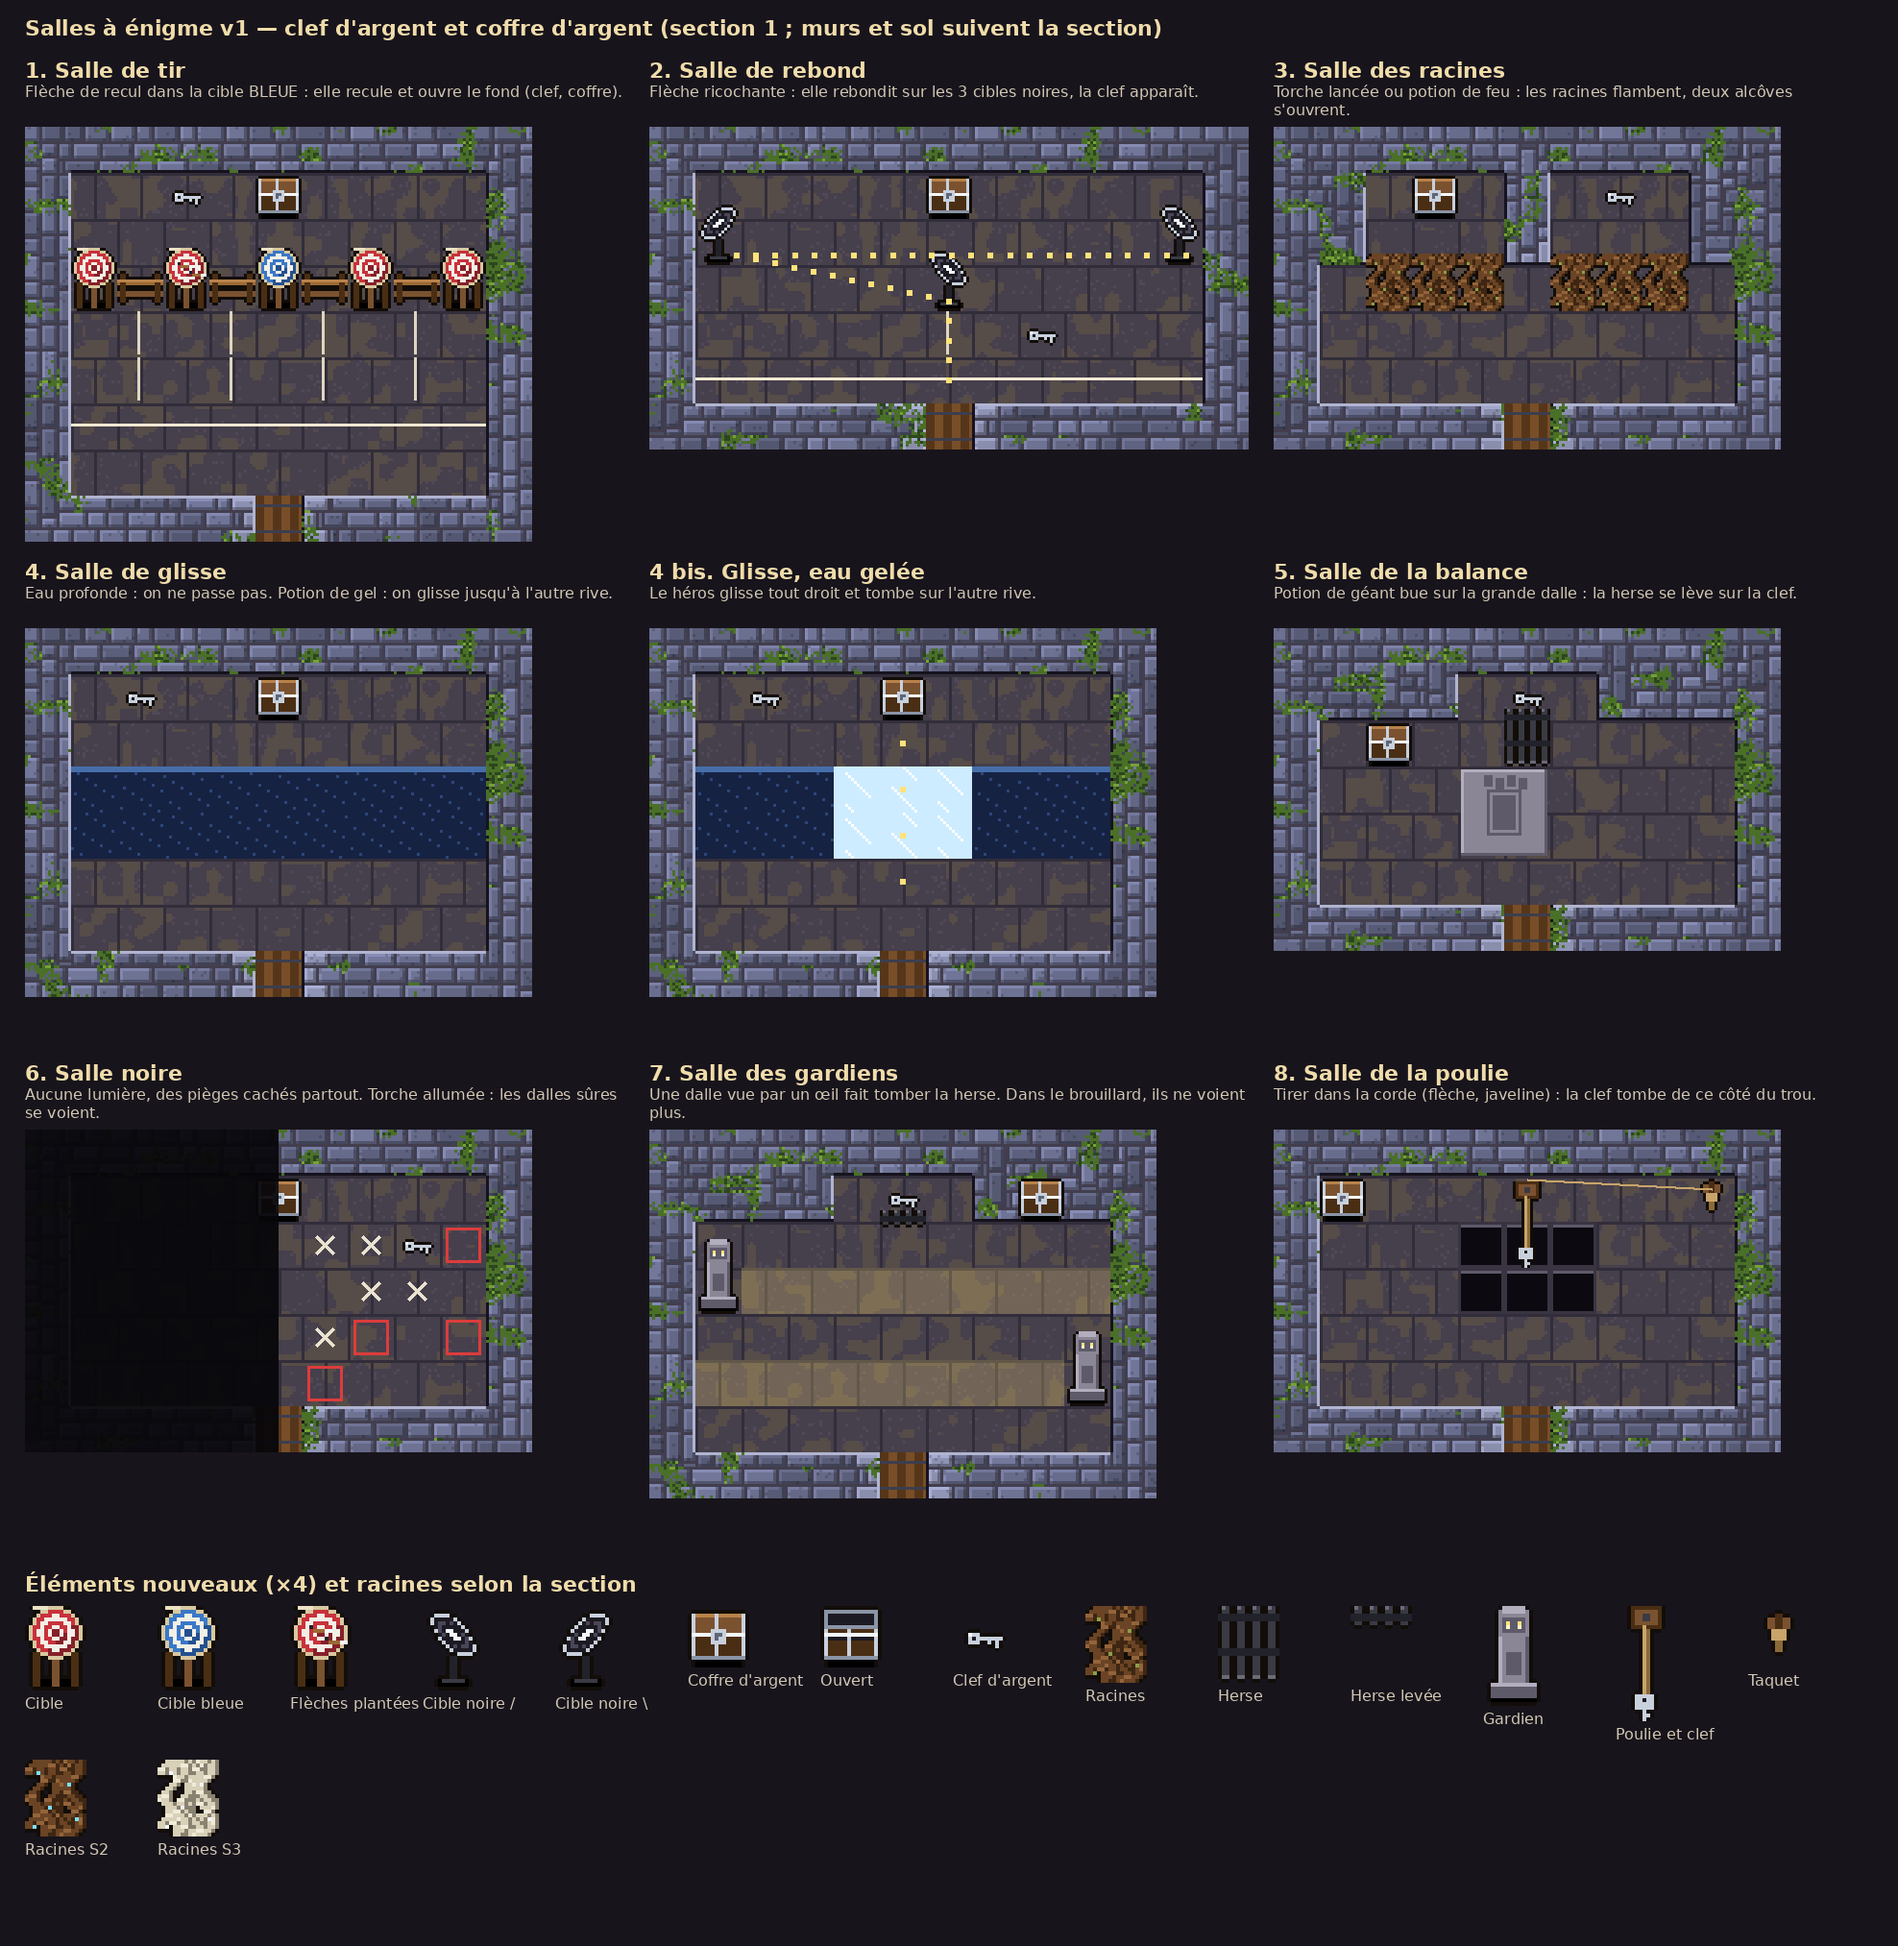
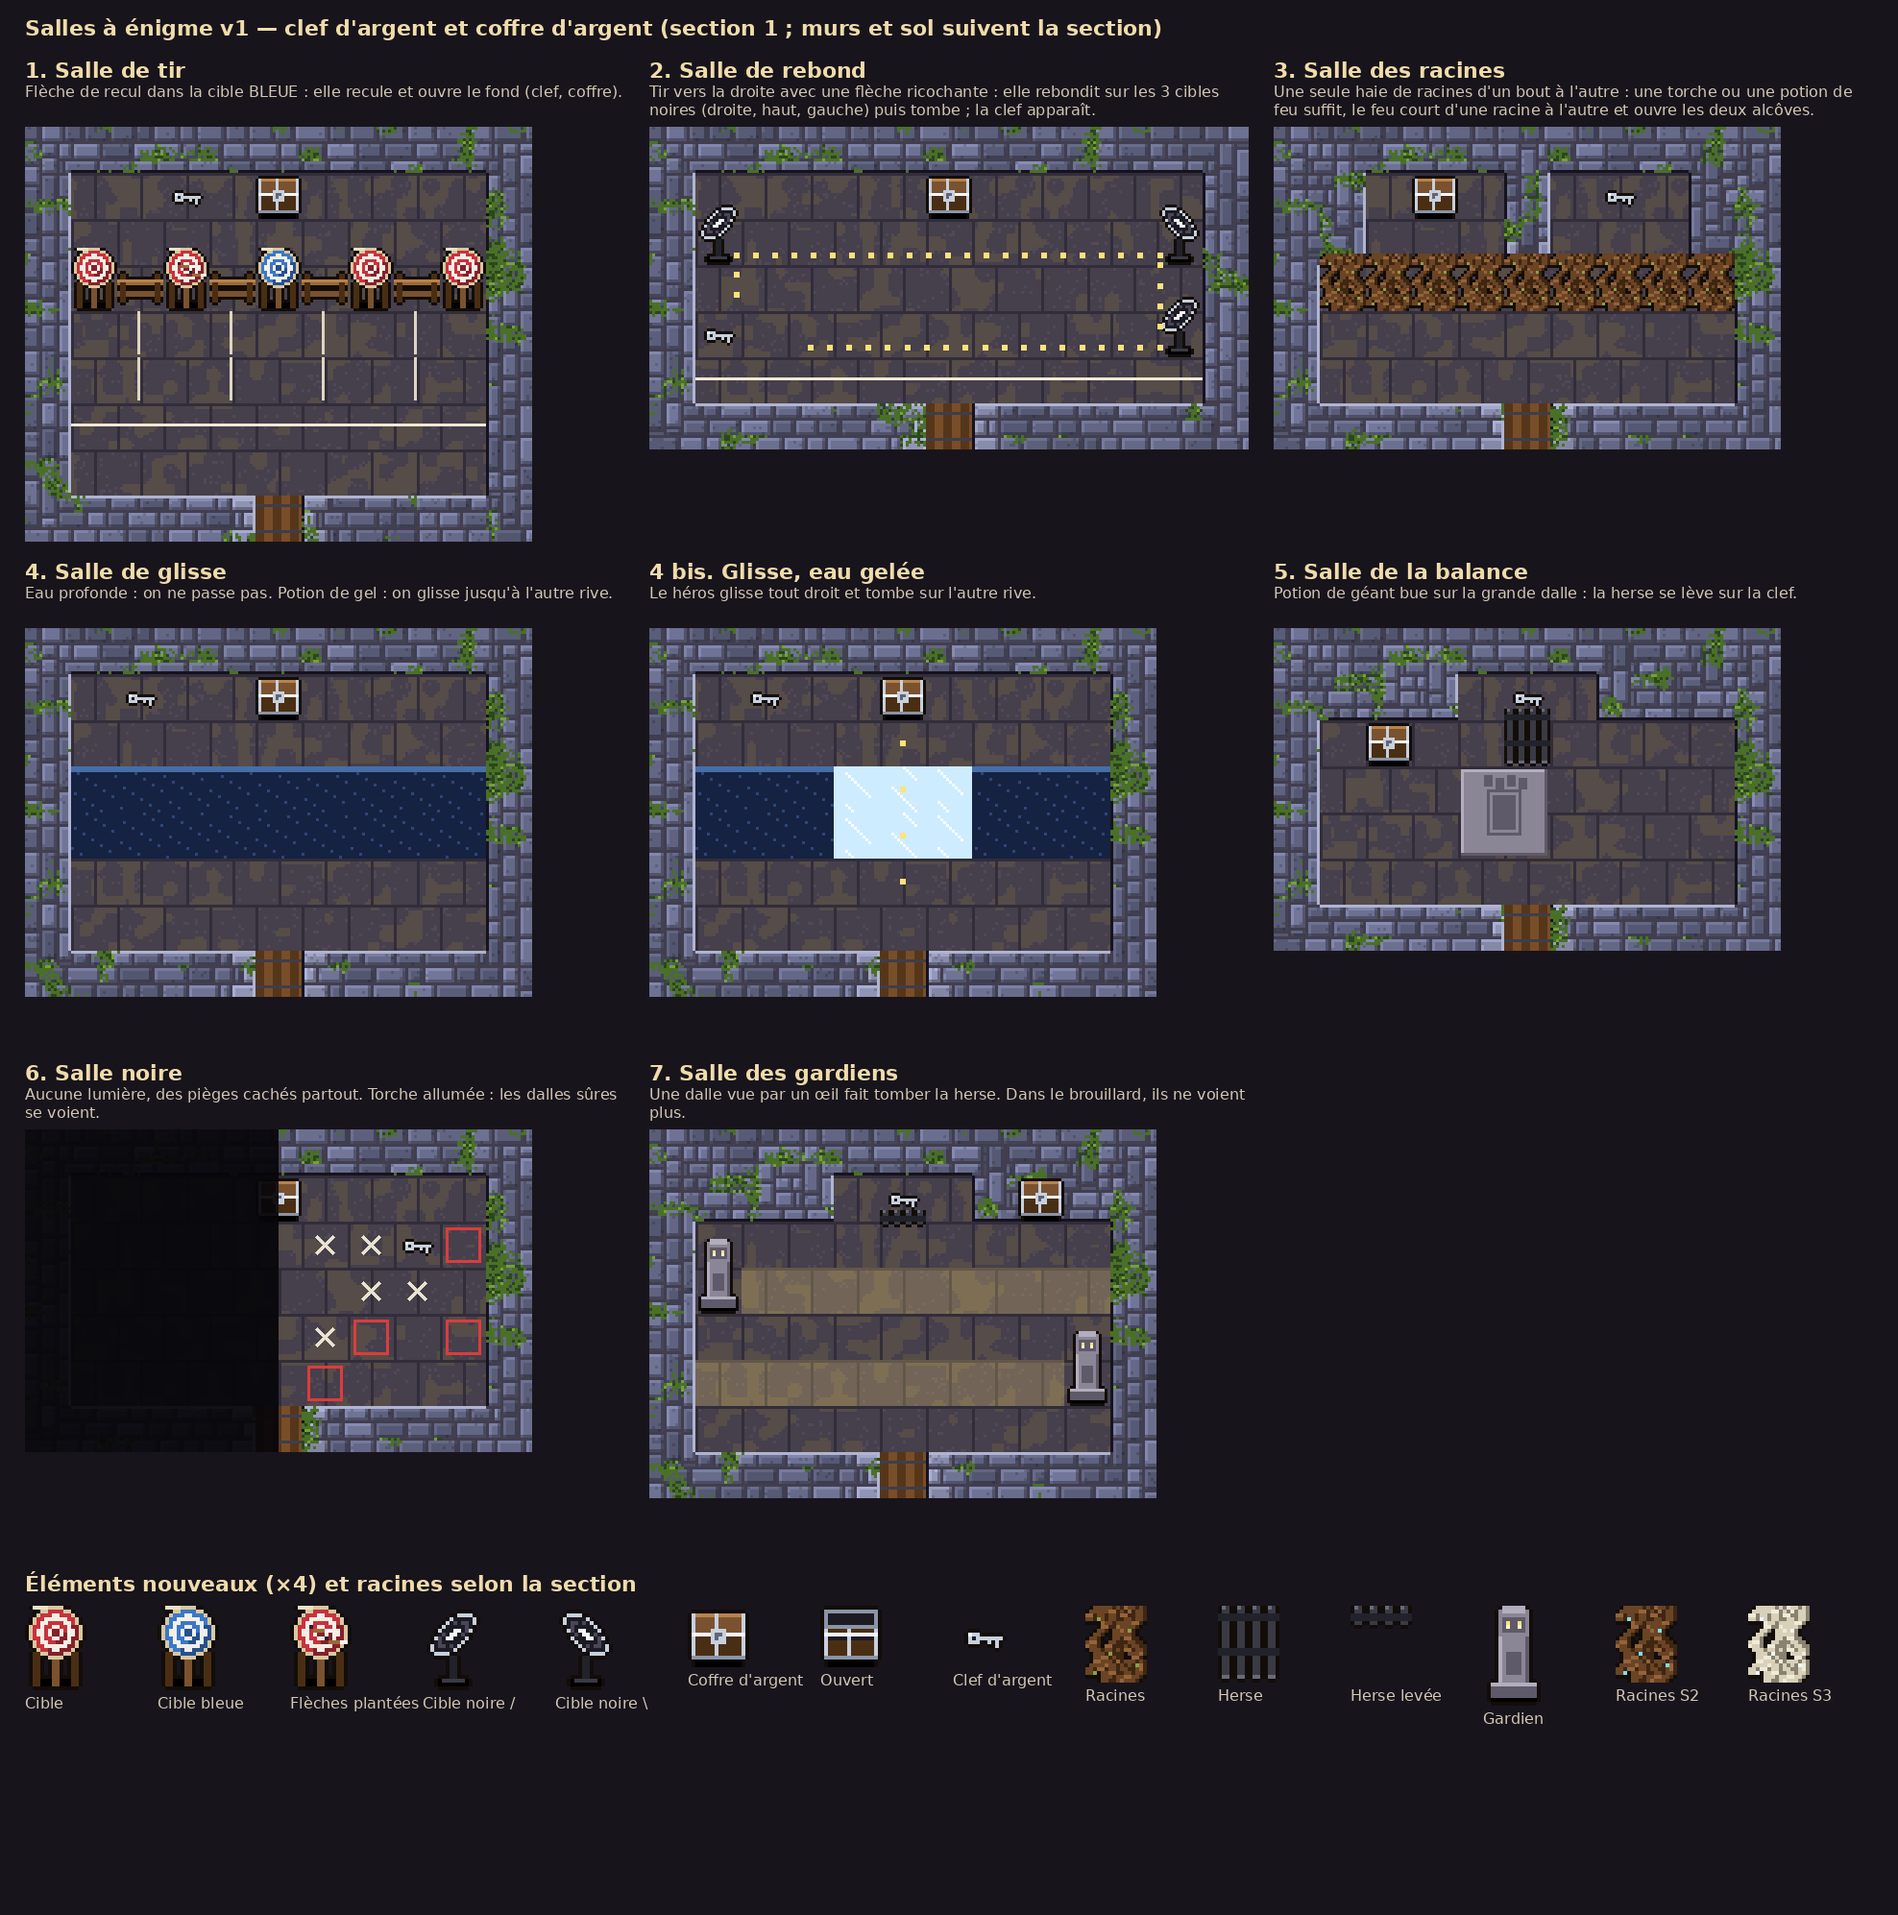
Salles à énigme v1 : cibles de rebond orientées, haie de racines continue, poulie retirée
Claude-Session: https://claude.ai/code/session_01TLwcm2eofnSYjAtsLj84z7

diff --git a/art/salles_enigme_v1.py b/art/salles_enigme_v1.py
@@ -3,7 +3,7 @@ PROPOSITION à valider, rien en jeu.
 
 Chaque salle : une énigme simple qui se résout avec un objet posé à coup sûr sur l'étage, une CLEF D'ARGENT à aller
 chercher et un COFFRE D'ARGENT. Huit salles : tir, rebond, racines, glisse (idées de Thomas), balance, salle noire,
-gardiens, poulie (idées de Claude retenues). Les murs et le sol suivent la section ; ici, la section 1.
+gardiens (idées de Claude retenues ; la poulie est retirée). Les murs et le sol suivent la section ; ici, la section 1.
 
     python3 art/salles_enigme_v1.py          → art/salles_enigme_v1.png
 """
@@ -61,7 +61,7 @@ def deflector(slash=True):
     for y in range(15):
         for x in range(16):
             u, v = (x - 7.5), (y - 7)
-            a, b = (u + v) / 1.414, (u - v) / 1.414
+            a, b = (u - v) / 1.414, (u + v) / 1.414
             if not slash:
                 a, b = b, a
             d = (a / 7.2) ** 2 + (b / 3.4) ** 2
@@ -227,7 +227,7 @@ ROOMS = [
         "#####D#####",
     ], {(5, 1): "C", (3, 1): "K", (1, 3): "T", (2, 3): "F", (3, 3): "Ta", (4, 3): "F", (5, 3): "Tb", (6, 3): "F", (7, 3): "T", (8, 3): "F", (9, 3): "T"},
      dict(lanes=((1, 4, 10, 6), (2, 4, 6, 8)))),
-    ("2. Salle de rebond", "Flèche ricochante : elle rebondit sur les 3 cibles noires, la clef apparaît.", [
+    ("2. Salle de rebond", "Tir vers la droite avec une flèche ricochante : elle rebondit sur les 3 cibles noires (droite, haut, gauche) puis tombe ; la clef apparaît.", [
         "#############",
         "#...........#",
         "#...........#",
@@ -235,9 +235,9 @@ ROOMS = [
         "#...........#",
         "#...........#",
         "######D######",
-    ], {(6, 1): "C", (1, 2): "\\", (11, 2): "/", (6, 3): "/", (8, 4): "K"},
-     dict(path=[(6, 5), (6, 3.3), (1.4, 2.3), (11.6, 2.3)], lanes=((1, 4, 12, 5), (6,)))),
-    ("3. Salle des racines", "Torche lancée ou potion de feu : les racines flambent, deux alcôves s'ouvrent.", [
+    ], {(6, 1): "C", (11, 4): "/", (11, 2): "\\", (1, 2): "/", (1, 4): "K"},
+     dict(path=[(3, 4.3), (10.6, 4.3), (10.6, 2.3), (1.4, 2.3), (1.4, 3.6)], lanes=((1, 5, 12, 5), ()))),
+    ("3. Salle des racines", "Une seule haie de racines d'un bout à l'autre : une torche ou une potion de feu suffit, le feu court d'une racine à l'autre et ouvre les deux alcôves.", [
         "###########",
         "##...#...##",
         "##...#...##",
@@ -245,7 +245,7 @@ ROOMS = [
         "#.........#",
         "#.........#",
         "#####D#####",
-    ], {(3, 1): "C", (7, 1): "K", (2, 3): "R", (3, 3): "R", (4, 3): "R", (6, 3): "R", (7, 3): "R", (8, 3): "R"}, {}),
+    ], {(3, 1): "C", (7, 1): "K", (1, 3): "R", (2, 3): "R", (3, 3): "R", (4, 3): "R", (5, 3): "R", (6, 3): "R", (7, 3): "R", (8, 3): "R", (9, 3): "R"}, {}),
     ("4. Salle de glisse", "Eau profonde : on ne passe pas. Potion de gel : on glisse jusqu'à l'autre rive.", [
         "###########",
         "#.........#",
@@ -284,15 +284,6 @@ ROOMS = [
         "#.........#",
         "#####D#####",
     ], {(5, 1): "K", (5, 2): "Gu", (8, 1): "C", (1, 3): "S", (9, 5): "S"}, dict(gaze=[(3, (2, 9)), (5, (1, 8))])),
-    ("8. Salle de la poulie", "Tirer dans la corde (flèche, javeline) : la clef tombe de ce côté du trou.", [
-        "###########",
-        "#.........#",
-        "#.........#",
-        "#.........#",
-        "#.........#",
-        "#.........#",
-        "#####D#####",
-    ], {(1, 1): "C", (5, 2): "Y", (9, 1): "Q"}, dict(pits=[(4, 2), (5, 2), (6, 2), (4, 3), (5, 3), (6, 3)], rope=((5.5, 1.1), (9.5, 1.3)))),
 ]
 
 
@@ -374,7 +365,7 @@ def strip(scale=4):
     """Les nouveaux éléments, seuls, et leurs couleurs selon la section."""
     names = [("Cible", "T"), ("Cible bleue", "Tb"), ("Flèches plantées", "Ta"), ("Cible noire /", "/"), ("Cible noire \\", "\\"),
              ("Coffre d'argent", "C"), ("Ouvert", "Co"), ("Clef d'argent", "K"), ("Racines", "R"), ("Herse", "G"),
-             ("Herse levée", "Gu"), ("Gardien", "S"), ("Poulie et clef", "Y"), ("Taquet", "Q")]
+             ("Herse levée", "Gu"), ("Gardien", "S")]
     ims = [(n, SPR[k].img()) for n, k in names]
     # variantes de section des racines : S2 bouts lumineux, S3 racines pâles comme des os
     C.update({"root": hexrgb("#d8d0b8") + (255,), "root_l": hexrgb("#f0ead8") + (255,), "root_d": hexrgb("#8a8270") + (255,)})
